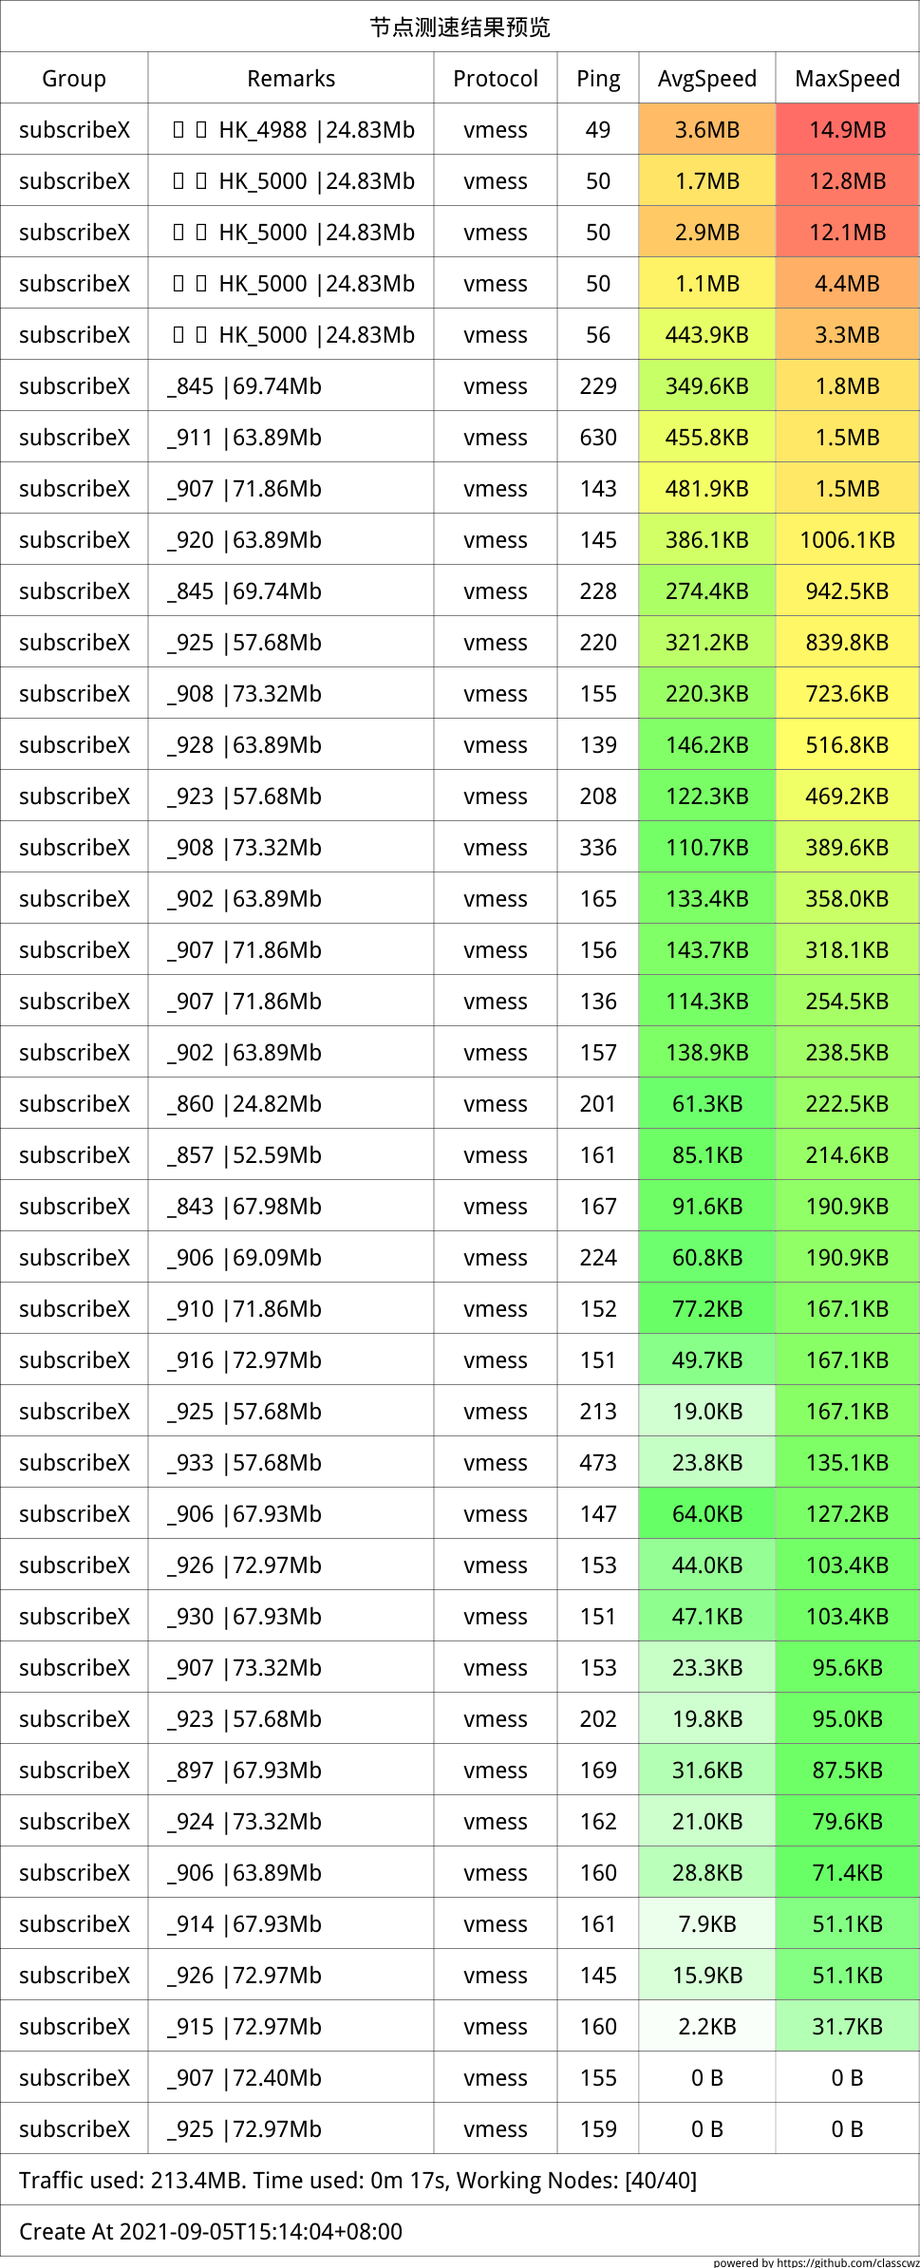
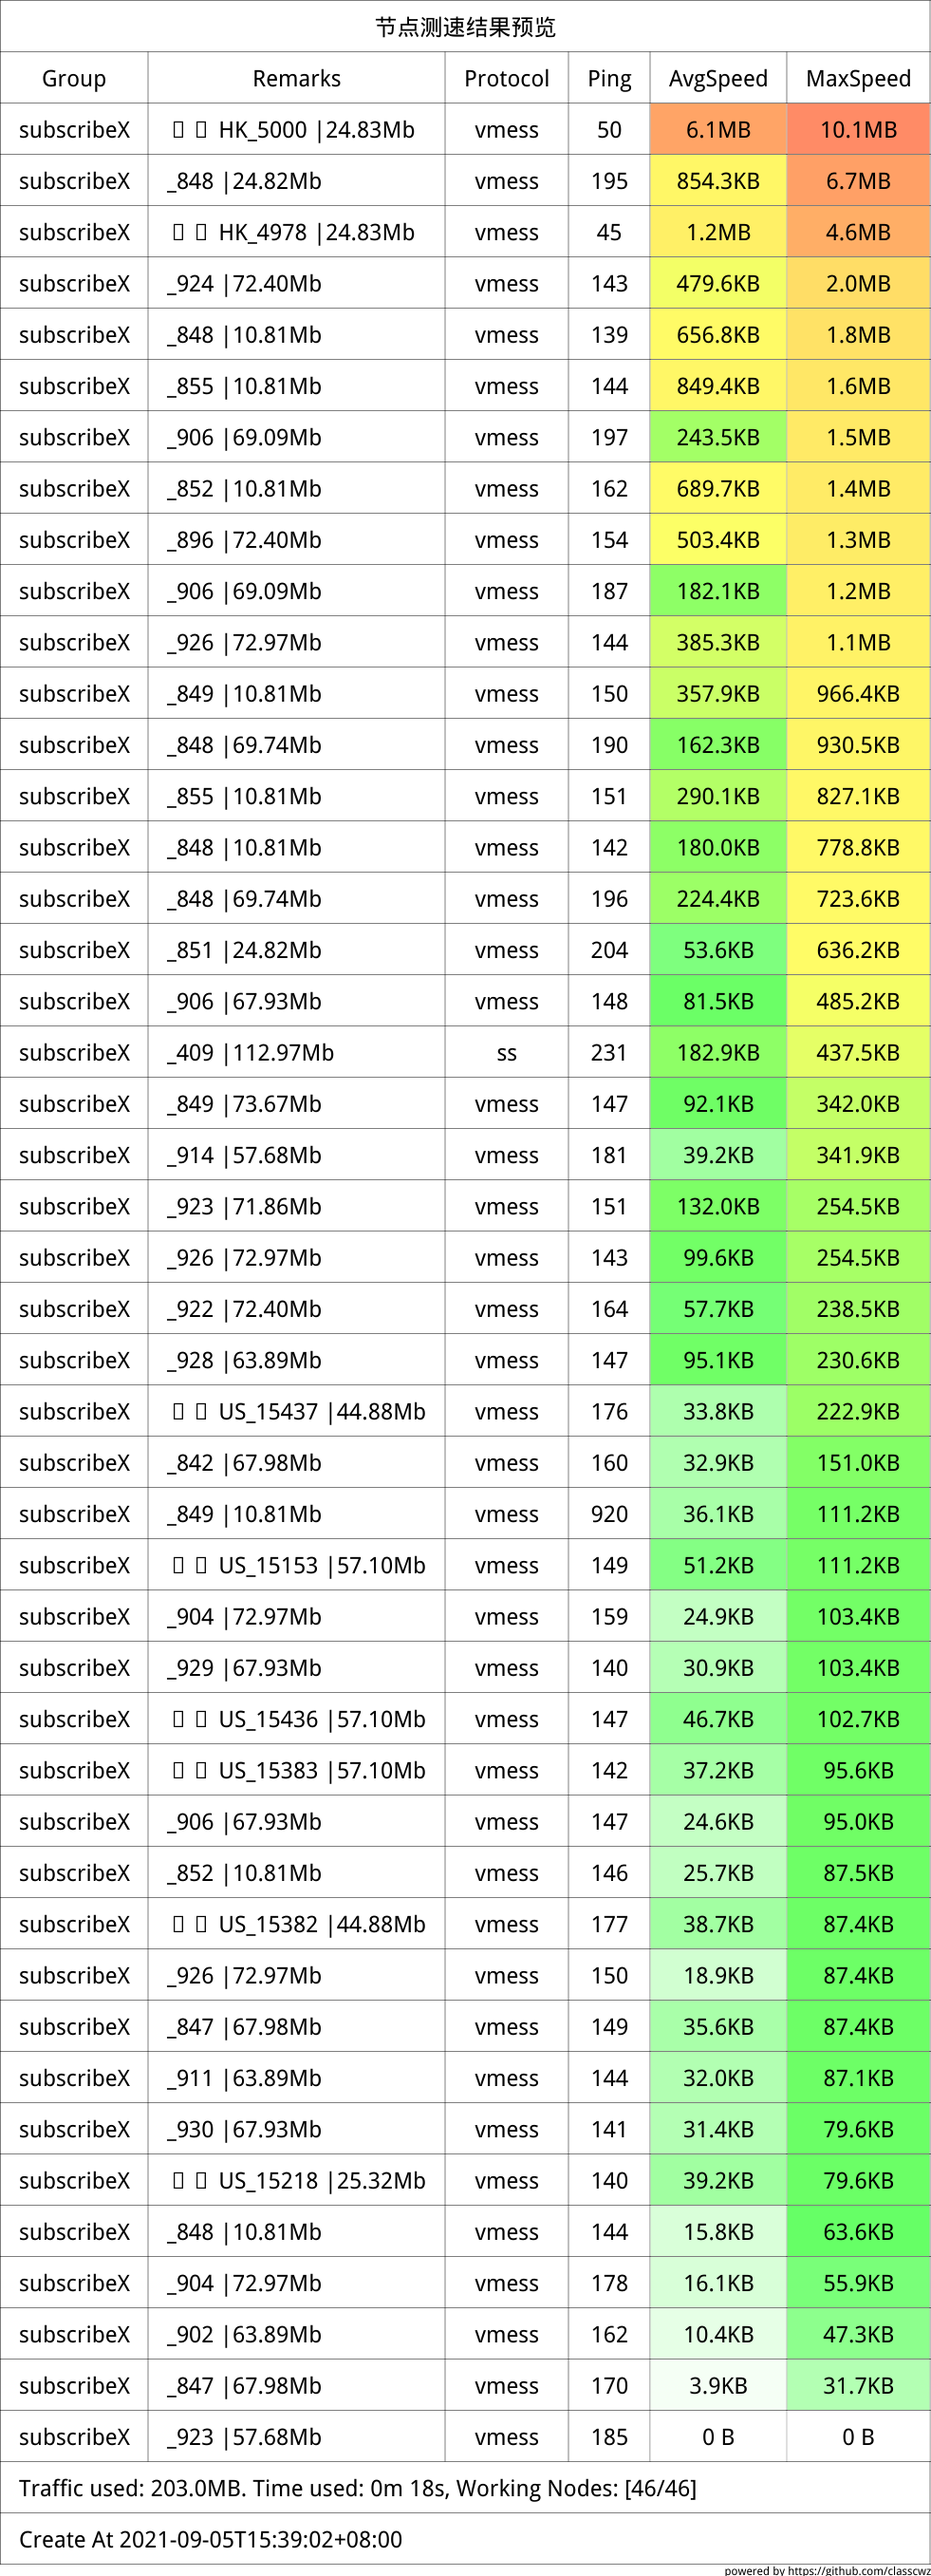
更新订阅链接

Changed region(s): [[0.0, 0.0, 1.0, 1.0]]

diff --git a/README.md b/README.md
@@ -1,4 +1,4 @@
-节点更新时间：2021-09-05 15:30:05 <!-- 星期 0 -->
+节点更新时间：2021-09-05 16:00:05 <!-- 星期 0 -->
 
 -----------------------------------------------科学上网极速订阅-------------------------------------------------
 
